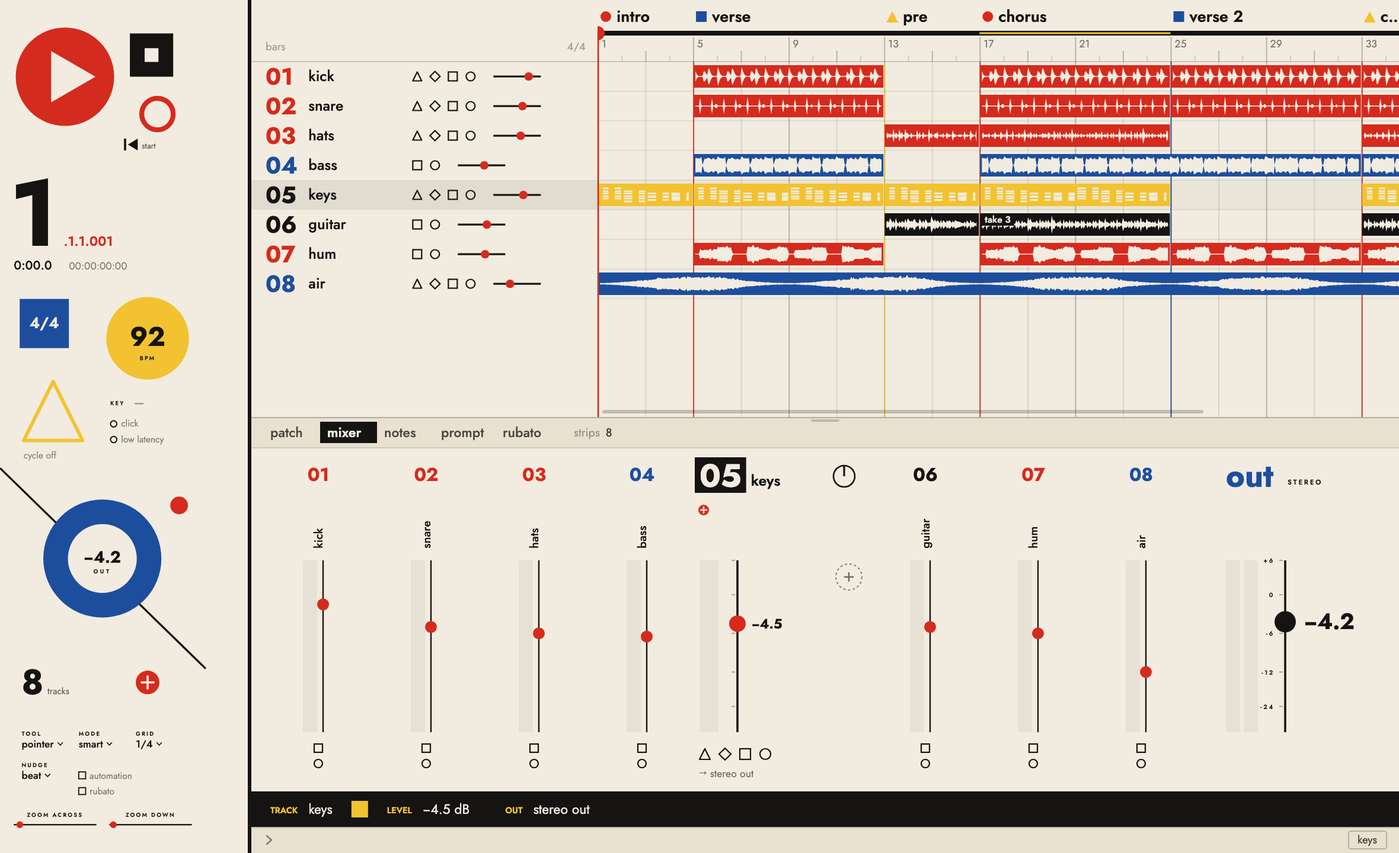
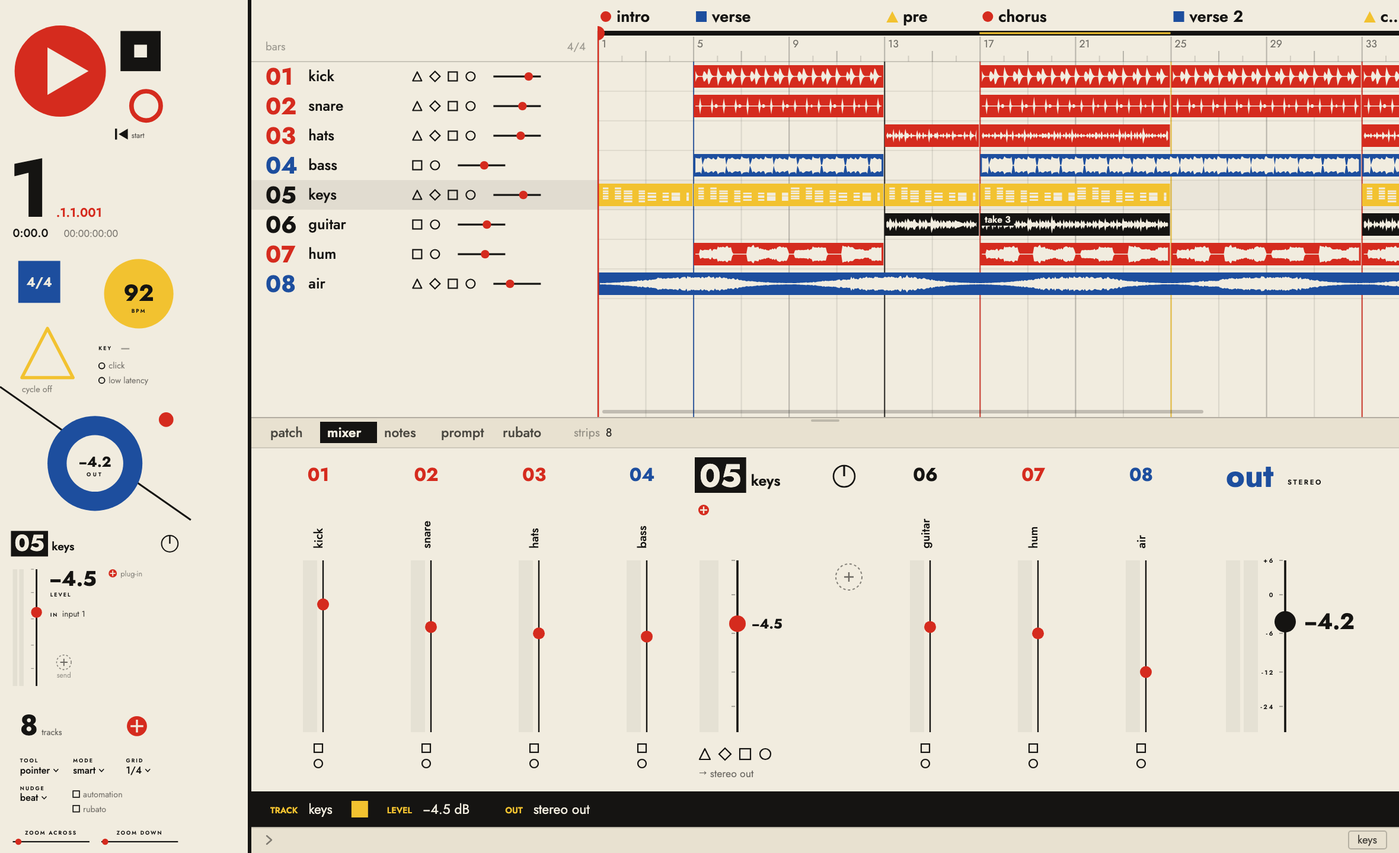
feat(daw): bauhaus draft 3 — the chosen track's strip stands in the left column under the out, with its group
The column holds the chosen track's number and name, pan, level (a red disc on a rule beside two bars as loud as
it sounds), input, group, plug-ins and sends as knobs; tool, mode, grid, nudge, automation, rubato and zoom go
small to its foot. The strip is drawn again when another track is chosen or a level, send or plug-in changes.
The patch keeps no strips at its right while the column holds one (SKIN_OWN_STRIP, panel.js SIDE).

diff --git a/Daw/ui/skin-poster.js b/Daw/ui/skin-poster.js
@@ -31,9 +31,11 @@ const bhArc = (cx, cy, r, f) => { f = clamp(f, 0, .9999); const a = f * 2 * Math
    one; the tool, mode, grid, nudge, automation, rubato and zoom smallest, at the foot. A window too short for it has it
    smaller. The tool row is folded away (skins.js SKIN.noTool). */
 const bhLab = (x, y, s, o = {}) => `<text x="${n(x)}" y="${n(y)}" font-family="${FONT}" font-size="${n((o.size || 5.6) * TF.scale)}" font-weight="600" letter-spacing="${o.ls == null ? 1.3 : o.ls}"${o.anchor ? ` text-anchor="${o.anchor}"` : ''} fill="${o.c || BH.black}"${o.a != null && o.a < 1 ? ` fill-opacity="${o.a}"` : ''}>${esc(String(s).toUpperCase())}</text>`
+/* the column down the left, as a poster (his picks: design/bauhaus draft 2, then draft 3 of 2026-10-22: the chosen track's
+   strip under the out, the smallest things at the foot); its x counted from the column's own edge */
 SKINS.left.poster = () => {
-  const CW = SKIN_BANDS.poster[2], p = curPos(), [bar, rest] = bhSplit(p), o = -CW, k = Math.min(1, H / 870)
-  const fld = (x, y, w, h) => ({ x: o + x * k, y: y * k, w: w * k, h: h * k })      // (a word's place in the room, for typing over it and for its list)
+  const CW = SKIN_BANDS.poster[2], p = curPos(), [bar, rest] = bhSplit(p), o = -CW, k = Math.min(1, H / 940)
+  const fld = (x, y, w, h) => ({ x: o + x * k, y: y * k, w: w * k, h: h * k })
   let s = ''
   /* the transport, largest */
   const play = S.playing && !S.rec
@@ -42,45 +44,90 @@ SKINS.left.poster = () => {
   s += (S.rec ? Cc(160, 116, 19, { fill: BH.red }) : Cc(160, 116, 16, { stroke: BH.red, sw: 5 })) + hit(138, 94, 44, 44, 'rec')
   s += R(126, 141, 2.2, 12, { fill: BH.black }) + P('M140 141L140 153L130 147Z', { fill: BH.black }) + T(144, 151, 'start', { size: 8, a: .7 }) + hit(122, 136, 50, 20, 'tostart')
   /* where the song is */
-  BHX.rest = 12 + tw(bar, 92, 700) + 4
-  s += T(10, 250, bar, { size: 92, w: 700, x: ' id="bh-bar"' }) + T(BHX.rest, 250, rest, { size: 13, w: 600, c: BH.red, x: ' id="bh-rest"' }) + hit(8, 176, CW - 20, 80, 'pos')
-  SKV.field.pos = fld(12, 200, 150, 44)
-  const tc = typeof smpte === 'function' ? smpte(p) : ''                                 // (the time as smpte, where the room says it: ui.js)
-  s += T(14, 274, clock(p), { size: 12, w: 500, x: ' id="bh-time"' }) + (tc ? T(70, 274, tc, { size: 10, a: .55, x: ' id="bh-smpte"' }) + hit(66, 262, 90, 16, 'smpte') : '')
-  if (tc) SKV.field.smpte = fld(66, 262, 96, 18)
-  /* tempo, metre, cycle: the three shapes, set apart */
-  s += Cc(150, 344, 42, { fill: BH.yellow }) + T(150, 352, String(Math.round(S.tempo * 100) / 100), { size: S.tempo >= 100 ? 21 : 26, w: 700, anchor: 'middle' }) + bhLab(150, 366, 'bpm', { anchor: 'middle' }) + hit(106, 300, 88, 88, 'tempo')
-  SKV.field.tempo = fld(118, 332, 64, 24)
-  s += R(20, 304, 50, 50, { fill: BH.blue }) + T(45, 334, meterName(), { size: 15, w: 600, c: BH.paper, anchor: 'middle' }) + hit(16, 300, 58, 58, 'meter')
-  SKV.field.meter = fld(20, 304, 50, 50)
+  BHX.rest = 12 + tw(bar, 86, 700) + 4
+  s += T(10, 238, bar, { size: 86, w: 700, x: ' id="bh-bar"' }) + T(BHX.rest, 238, rest, { size: 13, w: 600, c: BH.red, x: ' id="bh-rest"' }) + hit(8, 168, CW - 20, 76, 'pos')
+  SKV.field.pos = fld(12, 190, 150, 44)
+  const tc = typeof smpte === 'function' ? smpte(p) : ''
+  s += T(14, 260, clock(p), { size: 12, w: 500, x: ' id="bh-time"' }) + (tc ? T(70, 260, tc, { size: 10, a: .55, x: ' id="bh-smpte"' }) + hit(66, 248, 90, 16, 'smpte') : '')
+  if (tc) SKV.field.smpte = fld(66, 248, 96, 18)
+  /* tempo, metre, cycle */
+  s += Cc(152, 322, 38, { fill: BH.yellow }) + T(152, 330, String(Math.round(S.tempo * 100) / 100), { size: S.tempo >= 100 ? 20 : 24, w: 700, anchor: 'middle' }) + bhLab(152, 343, 'bpm', { anchor: 'middle' }) + hit(112, 282, 80, 80, 'tempo')
+  SKV.field.tempo = fld(122, 310, 60, 24)
+  s += R(20, 286, 46, 46, { fill: BH.blue }) + T(43, 314, meterName(), { size: 14, w: 600, c: BH.paper, anchor: 'middle' }) + hit(16, 282, 54, 54, 'meter')
+  SKV.field.meter = fld(20, 286, 46, 46)
   const c = S.cycle
-  s += P('M24 448L54 388L84 448Z', c.on ? { fill: BH.yellow } : { stroke: BH.yellow, sw: 3.5, x: ' stroke-linejoin="round"' }) + hit(20, 384, 68, 68, 'loop')
-  s += T(24, 466, c.on ? `cycle ${Math.round(c.a + 1)} to ${Math.round(c.b)}` : 'cycle off', { size: 9, a: c.on ? .9 : .5 }) + hit(20, 456, 90, 14, 'loop')
-  /* the key, click and low latency: small, beside them */
-  s += bhLab(112, 412, 'key') + T(136, 413, S.key || '—', { size: 11, w: 600, a: S.key ? 1 : .4 }) + hit(108, 400, 80, 18, 'key')
-  SKV.field.key = fld(132, 401, 60, 16)
+  s += P('M24 414L52 360L80 414Z', c.on ? { fill: BH.yellow } : { stroke: BH.yellow, sw: 3.5, x: ' stroke-linejoin="round"' }) + hit(20, 356, 64, 62, 'loop')
+  s += T(24, 430, c.on ? `cycle ${Math.round(c.a + 1)} to ${Math.round(c.b)}` : 'cycle off', { size: 9, a: c.on ? .9 : .5 }) + hit(20, 420, 90, 14, 'loop')
+  s += bhLab(108, 384, 'key') + T(132, 385, S.key || '—', { size: 11, w: 600, a: S.key ? 1 : .4 }) + hit(104, 372, 80, 18, 'key')
+  SKV.field.key = fld(128, 373, 60, 16)
   const ring = (x, y, on, word, a) => (on ? Cc(x + 3.5, y - 3, 3.5, { fill: BH.black }) : Cc(x + 3.5, y - 3, 3.2, { stroke: BH.black, sw: 1.2 })) + T(x + 11, y, word, { size: 9, a: on ? 1 : .55 }) + hit(x - 2, y - 11, tw(word, 9) + 16, 15, a)
-  s += ring(112, 434, !!S.click, 'click', 'click') + ring(112, 450, !!S.lowLat, 'low latency', 'lowlat')
-  /* the out: a blue ring as loud as the mix, crossed by a line, a red dot */
-  const mx = 104, my = 568
-  BHX.donut = [mx, my, 60]
-  s += P(`M0 ${my - 92}L${CW - 3} ${my + 112}`, { stroke: BH.black, sw: 2 }) + Cc(mx, my, 60, { fill: BH.blue }) + P('', { fill: BH.black, x: ' id="bh-donut"' })
-  s += Cc(mx, my, 35, { fill: BH.paper }) + T(mx, my + 4, fmtDb(S.master), { size: 16, w: 700, anchor: 'middle' }) + bhLab(mx, my + 15, 'out', { anchor: 'middle', ls: 2.2 }) + Cc(182, my - 54, 9, { fill: BH.red })
-  s += hit(mx - 38, my - 38, 76, 76, 'master', '', 'ns-resize')
+  s += ring(108, 404, !!S.click, 'click', 'click') + ring(108, 420, !!S.lowLat, 'low latency', 'lowlat')
+  /* the out */
+  const mx = 104, my = 508, mr = 52
+  BHX.donut = [mx, my, mr]
+  s += P(`M0 ${my - 84}L${CW - 3} ${my + 62}`, { stroke: BH.black, sw: 2 }) + Cc(mx, my, mr, { fill: BH.blue }) + P('', { fill: BH.black, x: ' id="bh-donut"' })
+  s += Cc(mx, my, 31, { fill: BH.paper }) + T(mx, my + 4, fmtDb(S.master), { size: 15, w: 700, anchor: 'middle' }) + bhLab(mx, my + 14, 'out', { anchor: 'middle', ls: 2.2 }) + Cc(182, my - 48, 8, { fill: BH.red })
+  s += hit(mx - 34, my - 34, 68, 68, 'master', '', 'ns-resize')
+  /* ── the strip of the track chosen ── */
+  const t = S.tracks[S.sel]
+  if (t) {
+    const i = S.sel, di = ` data-i="${i}"`, col = bhCol(t), vol = shown(t, 'vol'), heardT = heard(t), top = 584
+    /* its number on a black block, its name; its pan a ring */
+    const num = pad2(i + 1), nw = tw(num, 24, 700)
+    s += R(12, top - 2, nw + 8, 28, { fill: BH.black }) + T(16, top + 20, num, { size: 24, w: 700, c: BH.paper }) + T(24 + nw, top + 19, fit(asGiven(t.name), 120, 12, 600), { size: 12, w: 600, a: heardT ? 1 : .5 }) + hit(12, top - 2, 150, 28, 'sel', di)
+    const pan = shown(t, 'pan') || 0, pcx = 186, pcy = top + 12, pa = pan * 2.4
+    s += Cc(pcx, pcy, 9, { stroke: BH.black, sw: 1.3 }) + P(`M${pcx} ${pcy}L${n(pcx + 9 * Math.sin(pa))} ${n(pcy - 9 * Math.cos(pa))}`, { stroke: BH.black, sw: 1.6 }) + hit(pcx - 14, pcy - 12, 28, 24, 'mpan', `${di} data-x="${n(o + (pcx - 30) * k)}" data-pw="${n(60 * k)}"`, 'ew-resize')
+    /* its level: two bars of its colour, the rule, the red disc; its level large; where it comes in */
+    const ft = top + 40, fb = top + 168, fh = fb - ft, yOf = db => fb - fh * volF(db)
+    BHX.strip = [ft, fh]
+    for (let q = 0; q < 2; q++) s += R(14 + q * 7, ft, 5, fh, { fill: BH.black, fa: .06 }) + R(14 + q * 7, fb, 5, 0, { fill: col, fa: heardT ? 1 : .45, x: ` id="bhs-${q}"` })
+    for (const db of [6, 0, -6, -12, -24]) s += R(34, yOf(db) - .4, 3, .8, { fill: BH.black, fa: .4 })
+    s += R(39.1, ft, 1.8, fh, { fill: BH.black }) + Cc(40, yOf(vol), 6, { fill: BH.red, fa: heardT ? 1 : .5 }) + hit(10, ft - 6, 40, fh + 12, 'vol', `${di} data-rel="1"`, 'ns-resize')
+    s += T(54, ft + 18, fmtDb(vol), { size: 22, w: 700, a: heardT ? 1 : .5 }) + bhLab(55, ft + 30, 'level') + hit(52, ft - 2, 60, 34, 'volnum', di, 'text')
+    if (t.kind === 'audio' && !t.theirs && !t.inst) { const word = inputName(t.inp || 0); s += bhLab(55, ft + 52, 'in') + T(68, ft + 52, fit(word, 50, 8.5), { size: 8.5, a: .8 }) + hit(52, ft + 42, 64, 14, 'min', di) }
+    if (t.grp && typeof grpMeta === 'function') {                                         // its group (groups.js), as the transport panel has it: pressed, as there
+      const m = grpMeta(t.grp), off = S.grpOff || !m.on, gn = fit(asGiven(m.name), 44, 8.5), gy = ft + 68
+      s += bhLab(55, gy, 'group') + T(84, gy, gn, { size: 8.5, a: off ? .4 : .85 }) + Cc(84 + tw(gn, 8.5) + 6, gy - 3, 2.8, { fill: grpColour(t.grp), fa: off ? .35 : 1 })
+      s += hit(52, gy - 11, 44 + tw(gn, 8.5), 15, 'mgrp', `${di} data-x="${n(o + 82 * k)}" data-y="${n((gy - 11) * k)}" data-w="${n(70 * k)}" data-h="${n(13 * k)}"`)
+    }
+    /* its plug-ins, a red disc to put one on */
+    const items = fxItems(t), gx = 120
+    let ly = ft + 8
+    if (t.theirs) { s += T(gx, ly, 'patch →', { size: 8.5, a: .5 }) + hit(gx - 3, ly - 10, 80, 14, 'm-patch', di); ly += 13 }
+    else {
+      const show = Math.min(items.length, 3)
+      items.slice(0, show).forEach((it, j) => { s += R(gx, ly - 7, 7, 7, { fill: it.c || BH.black, fa: it.off ? .35 : 1 }) + T(gx + 11, ly, fit(asGiven(it.t), 66, 8.5), { size: 8.5, a: it.off ? .45 : .9 }) + hit(gx - 3, ly - 10, 84, 13, 'mfx', `${di} data-k="${j}"`); ly += 13 })
+      if (items.length > 3) { s += T(gx + 11, ly, `+${items.length - 3} more`, { size: 8, a: .5 }) + hit(gx - 3, ly - 10, 84, 13, 'm-patch', di); ly += 13 }
+      s += Cc(gx + 3.5, ly - 3.5, 4.5, { fill: BH.red }) + P(`M${gx + 3.5} ${ly - 6.5}v6M${gx + .5} ${ly - 3.5}h6`, { stroke: BH.paper, sw: 1.2 }) + T(gx + 12, ly, 'plug-in', { size: 8, a: .45 }) + hit(gx - 3, ly - 10, 60, 13, 'mfxadd', di)
+    }
+    /* its sends: knobs with the bus under each, how much with the pointer on it; three, then how many more */
+    if (t.kind !== 'stack') {
+      const sends = t.sends || [], three = sends.slice(0, sends.length > 4 ? 3 : 4), kr = 8, ky = fb - 26
+      let kx = 70
+      three.forEach((sd, q) => {
+        const b = byId(sd.to), f = volF(sd.db), a0 = -135 * Math.PI / 180, a1 = a0 + f * 270 * Math.PI / 180, on = (r, z) => `${n(kx + r * Math.sin(z))} ${n(ky - r * Math.cos(z))}`, turning = drag && drag.a === 'msend' && drag.i === i && drag.k === q
+        s += `<g class="bmk${turning ? ' on' : ''}">` + Cc(kx, ky, kr, { fill: BH.paper, stroke: BH.black, sw: 1.2 }) + (f > .004 ? P(`M${on(kr + 2.4, a0)}A${kr + 2.4} ${kr + 2.4} 0 ${f > 2 / 3 ? 1 : 0} 1 ${on(kr + 2.4, a1)}`, { stroke: BH.red, sw: 2.2 }) : '') + P(`M${n(kx)} ${n(ky)}L${on(kr - 1, a1)}`, { stroke: BH.black, sw: 1.5 })
+          + T(kx, ky + kr + 9, fit(asGiven(b ? b.name : 'send'), 30, 7.5, 600), { size: 7.5, w: 600, a: .8, anchor: 'middle', x: ' class="bmk-name"' }) + T(kx, ky + kr + 9, fmtDb(sd.db), { size: 7.5, w: 600, c: BH.red, anchor: 'middle', x: ' class="bmk-db"' })
+          + hit(kx - kr - 4, ky - kr - 4, 2 * kr + 8, 2 * kr + 14, 'msend', `${di} data-k="${q}" data-rel="1" data-x="${n(o + (kx - 60) * k)}" data-pw="${n(120 * k)}"`, 'ns-resize') + '</g>'
+        kx += 34
+      })
+      if (sends.length > three.length) s += T(kx, ky + 3, `+${sends.length - three.length}`, { size: 9, w: 600, a: .6, anchor: 'middle' }) + hit(kx - kr, ky - kr, 2 * kr, 2 * kr, 'tab-mixer')
+      else if (sends.length < (typeof MAX_SENDS === 'number' ? MAX_SENDS : 10) && !t.theirs) s += Cc(kx, ky, kr, { stroke: BH.black, sw: 1, dash: '2 2', sa: .5 }) + P(`M${kx} ${ky - 4}v8M${kx - 4} ${ky}h8`, { stroke: BH.black, sw: 1.2, sa: .6 }) + T(kx, ky + kr + 9, 'send', { size: 7.5, a: .4, anchor: 'middle' }) + hit(kx - kr - 4, ky - kr - 4, 2 * kr + 8, 2 * kr + 8, 'msendadd', di)
+    }
+  }
   /* the tracks: a figure, a red disc to add one */
-  const nt = S.tracks.filter(t => t.kind === 'audio').length
-  s += T(22, 706, String(nt), { size: 34, w: 700 }) + T(26 + tw(String(nt), 34, 700), 706, nt === 1 ? 'track' : 'tracks', { size: 9, a: .65 })
-  s += Cc(150, 694, 12, { fill: BH.red }) + P('M150 687V701M143 694H157', { stroke: BH.paper, sw: 2.2 }) + hit(134, 678, 32, 32, 'addtrack')
-  /* the smallest: the tool, the mode, the grid, the nudge, automation, rubato, the zoom */
+  const nt = S.tracks.filter(x => x.kind === 'audio').length
+  s += T(22, 806, String(nt), { size: 30, w: 700 }) + T(26 + tw(String(nt), 30, 700), 806, nt === 1 ? 'track' : 'tracks', { size: 9, a: .65 })
+  s += Cc(150, 796, 11, { fill: BH.red }) + P('M150 789V803M143 796H157', { stroke: BH.paper, sw: 2.2 }) + hit(135, 781, 30, 30, 'addtrack')
+  /* the smallest, at the foot */
   const small = (x, y, key, v, a) => { const w = tw(v, 10, 500); SKV.field[a] = fld(x - 2, y - 10, Math.max(56, w + 14), 14); return bhLab(x, y - 12, key) + T(x, y, v, { size: 10, w: 500 }) + P(`M${n(x + w + 4)} ${y - 5}l2.6 2.8l2.6 -2.8`, { stroke: BH.black, sw: 1 }) + hit(x - 3, y - 20, w + 14, 24, a) }
-  s += small(22, 760, 'tool', toolWord(S.tool), 'toolmenu') + small(80, 760, 'mode', S.mode, 'modemenu') + small(138, 760, 'grid', S.grid, 'grid')
-  s += small(22, 792, 'nudge', S.nudge, 'nudge')
+  s += small(22, 848, 'tool', toolWord(S.tool), 'toolmenu') + small(80, 848, 'mode', S.mode, 'modemenu') + small(138, 848, 'grid', S.grid, 'grid')
+  s += small(22, 878, 'nudge', S.nudge, 'nudge')
   const sq = (x, y, on, word, a) => R(x, y - 7, 7, 7, on ? { fill: BH.black } : { stroke: BH.black, sw: 1.1 }) + T(x + 11, y, word, { size: 9, a: on ? 1 : .55 }) + hit(x - 2, y - 11, tw(word, 9) + 16, 15, a)
-  s += sq(80, 792, !!S.auto, 'automation', 'autokey') + sq(80, 808, !!S.flex, 'rubato', 'flexkey')
-  /* the zoom: two rules side by side, their names over their middles (his word on draft 2) */
+  s += sq(80, 874, !!S.auto, 'automation', 'autokey') + sq(80, 890, !!S.flex, 'rubato', 'flexkey')
   const zf = clamp(Math.log(PXB / fitPXB()) / Math.log(640 / fitPXB()), 0, 1), rf = clamp(((S.rh || 25) - 20) / 100, 0, 1), zw = 84
   const zoom = (x, y, f, a, word) => bhLab(x + zw / 2, y - 7, word, { anchor: 'middle' }) + R(x, y, zw, 1.4, { fill: BH.black }) + Cc(x + zw * f, y + .7, 3.4, { fill: BH.red }) + hit(x - 5, y - 9, zw + 10, 16, a, ` data-x0="${n(o + x * k)}" data-w="${n(zw * k)}"`, 'ew-resize')
-  s += zoom(14, 838, zf, 'zoomx', 'zoom across') + zoom(111, 838, rf, 'zoomy', 'zoom down')
+  s += zoom(14, 922, zf, 'zoomx', 'zoom across') + zoom(111, 922, rf, 'zoomy', 'zoom down')
   const ground = R(0, 0, CW, H, { fill: K1 }) + R(CW - 3, 0, 3, H, { fill: BH.black })
   return G(ground + G(G(s, k < 1 ? `scale(${n(k)})` : ''), '', ' id="bh-col"'), `translate(${o} 0)`)
 }
@@ -110,6 +157,11 @@ SKINS.frame.poster = p => {
   /* the start page and the sheet of keys are over the room: the column's controls are not there to be pressed while they are */
   const col = $('bh-col'), hide = (typeof START === 'object' && START.on) || !!S.sheet
   if (col && col.getAttribute('visibility') !== (hide ? 'hidden' : 'visible')) col.setAttribute('visibility', hide ? 'hidden' : 'visible')
+  const sg = BHX.strip, tk = S.tracks[S.sel]
+  if (sg && tk && typeof METERS === 'object') {                                          // the chosen track's two bars: as loud as each side (one level for both where the app gives one)
+    const two = METERS.ts && METERS.ts.get(tk.id), mono = METERS.now.get(tk.id) || 0, f = v => volF(Math.min(6, linDb(v)))
+    ;[two ? two[0] : mono, two ? two[1] : mono].forEach((v, q) => { const el = $('bhs-' + q); if (el) { const hh = sg[1] * f(v); el.setAttribute('y', n(sg[0] + sg[1] - hh)); el.setAttribute('height', n(hh)) } })
+  }
   const [bar, rest] = bhSplit(p), b = $('bh-bar'), r = $('bh-rest'), t = $('bh-time'), sm = $('bh-smpte'), ct = clock(p), st = typeof smpte === 'function' ? smpte(p) : ''
   if (b && b.textContent !== bar) { b.textContent = bar; BHX.rest = 12 + tw(bar, 92, 700) + 4; if (r) r.setAttribute('x', n(BHX.rest)) }
   if (r && r.textContent !== rest) r.textContent = rest
@@ -288,6 +340,11 @@ function bhMixer (y, h) {
   return s
 }
 SKINS.mixer.poster = bhMixer
+SKIN_OWN_STRIP.add('poster')                                                          // (its column holds the chosen track's strip: the patch keeps none at its right — panel.js SIDE)
+/* the column's strip is the chosen track's: drawn again where the heads and the panel below change (another track chosen, a level, a send, a plug-in), as panel.js's strip is
+   (this file comes before ui.js: its uiDirty is wrapped once every file is in) */
+addEventListener('DOMContentLoaded', () => { const dirty0 = uiDirty
+  uiDirty = function () { dirty0.apply(this, arguments); if (SKIN.k.transport === 'poster' && BHX.strip) for (const q of arguments) if (q === 'head' || q === 'dock') { dirty0('top'); break } } })
 /* a send's knob shows its bus; how much it sends, while the pointer is over it or it is turned */
 { const st = document.createElement('style'); st.textContent = '.bmk .bmk-db{display:none}.bmk:hover .bmk-db,.bmk.on .bmk-db{display:inline}.bmk:hover .bmk-name,.bmk.on .bmk-name{display:none}'; document.head.appendChild(st) }
 /* the panel's tabs: words, the open one on a black block */

diff --git a/Daw/design/bauhaus draft 3/column.js b/Daw/design/bauhaus draft 3/column.js
@@ -1,0 +1,101 @@
+/* ── bauhaus, draft 3: the chosen track's strip in the column (his word, 2026-10-22: "왼쪽 기둥 안 … tool / mode / grid /
+   nudge / automation / rubato / zoom across / zoom down 이거를 밑으로 내리고, 마스터 밑에다가 만들면 돼. default 테마의
+   트랜스포트 패널을 참고하도록") ──
+   Laid into the room by shots.mjs only. The column as draft 2 has it, drawn a little closer, and under the out the strip of
+   the track chosen, as the transport panel has it: its number on a black block and its name, its pan a ring; two bars of
+   its colour as loud as each side, the black rule and the red disc of its level, its level large; where it comes in; its
+   plug-ins and a red disc to put one on; its sends as knobs with the bus under each (how much, with the pointer on it).
+   Under it the tracks and the smallest things. A window too short has the column smaller. */
+SKINS.left.poster = () => {
+  const CW = SKIN_BANDS.poster[2], p = curPos(), [bar, rest] = bhSplit(p), o = -CW, k = Math.min(1, H / 940)
+  const fld = (x, y, w, h) => ({ x: o + x * k, y: y * k, w: w * k, h: h * k })
+  let s = ''
+  /* the transport, largest */
+  const play = S.playing && !S.rec
+  s += Cc(66, 78, 50, { fill: BH.red }) + (play ? R(52, 56, 10, 44, { fill: BH.paper }) + R(71, 56, 10, 44, { fill: BH.paper }) : P('M52 52L52 104L97 78Z', { fill: BH.paper })) + hit(14, 26, 104, 104, 'play')
+  s += R(132, 34, 44, 44, { fill: BH.black }) + R(147, 49, 14, 14, { fill: BH.paper }) + hit(128, 30, 52, 52, 'stop')
+  s += (S.rec ? Cc(160, 116, 19, { fill: BH.red }) : Cc(160, 116, 16, { stroke: BH.red, sw: 5 })) + hit(138, 94, 44, 44, 'rec')
+  s += R(126, 141, 2.2, 12, { fill: BH.black }) + P('M140 141L140 153L130 147Z', { fill: BH.black }) + T(144, 151, 'start', { size: 8, a: .7 }) + hit(122, 136, 50, 20, 'tostart')
+  /* where the song is */
+  BHX.rest = 12 + tw(bar, 86, 700) + 4
+  s += T(10, 238, bar, { size: 86, w: 700, x: ' id="bh-bar"' }) + T(BHX.rest, 238, rest, { size: 13, w: 600, c: BH.red, x: ' id="bh-rest"' }) + hit(8, 168, CW - 20, 76, 'pos')
+  SKV.field.pos = fld(12, 190, 150, 44)
+  const tc = typeof smpte === 'function' ? smpte(p) : ''
+  s += T(14, 260, clock(p), { size: 12, w: 500, x: ' id="bh-time"' }) + (tc ? T(70, 260, tc, { size: 10, a: .55, x: ' id="bh-smpte"' }) + hit(66, 248, 90, 16, 'smpte') : '')
+  if (tc) SKV.field.smpte = fld(66, 248, 96, 18)
+  /* tempo, metre, cycle */
+  s += Cc(152, 322, 38, { fill: BH.yellow }) + T(152, 330, String(Math.round(S.tempo * 100) / 100), { size: S.tempo >= 100 ? 20 : 24, w: 700, anchor: 'middle' }) + bhLab(152, 343, 'bpm', { anchor: 'middle' }) + hit(112, 282, 80, 80, 'tempo')
+  SKV.field.tempo = fld(122, 310, 60, 24)
+  s += R(20, 286, 46, 46, { fill: BH.blue }) + T(43, 314, meterName(), { size: 14, w: 600, c: BH.paper, anchor: 'middle' }) + hit(16, 282, 54, 54, 'meter')
+  SKV.field.meter = fld(20, 286, 46, 46)
+  const c = S.cycle
+  s += P('M24 414L52 360L80 414Z', c.on ? { fill: BH.yellow } : { stroke: BH.yellow, sw: 3.5, x: ' stroke-linejoin="round"' }) + hit(20, 356, 64, 62, 'loop')
+  s += T(24, 430, c.on ? `cycle ${Math.round(c.a + 1)} to ${Math.round(c.b)}` : 'cycle off', { size: 9, a: c.on ? .9 : .5 }) + hit(20, 420, 90, 14, 'loop')
+  s += bhLab(108, 384, 'key') + T(132, 385, S.key || '—', { size: 11, w: 600, a: S.key ? 1 : .4 }) + hit(104, 372, 80, 18, 'key')
+  SKV.field.key = fld(128, 373, 60, 16)
+  const ring = (x, y, on, word, a) => (on ? Cc(x + 3.5, y - 3, 3.5, { fill: BH.black }) : Cc(x + 3.5, y - 3, 3.2, { stroke: BH.black, sw: 1.2 })) + T(x + 11, y, word, { size: 9, a: on ? 1 : .55 }) + hit(x - 2, y - 11, tw(word, 9) + 16, 15, a)
+  s += ring(108, 404, !!S.click, 'click', 'click') + ring(108, 420, !!S.lowLat, 'low latency', 'lowlat')
+  /* the out */
+  const mx = 104, my = 508, mr = 52
+  BHX.donut = [mx, my, mr]
+  s += P(`M0 ${my - 84}L${CW - 3} ${my + 62}`, { stroke: BH.black, sw: 2 }) + Cc(mx, my, mr, { fill: BH.blue }) + P('', { fill: BH.black, x: ' id="bh-donut"' })
+  s += Cc(mx, my, 31, { fill: BH.paper }) + T(mx, my + 4, fmtDb(S.master), { size: 15, w: 700, anchor: 'middle' }) + bhLab(mx, my + 14, 'out', { anchor: 'middle', ls: 2.2 }) + Cc(182, my - 48, 8, { fill: BH.red })
+  s += hit(mx - 34, my - 34, 68, 68, 'master', '', 'ns-resize')
+  /* ── the strip of the track chosen ── */
+  const t = S.tracks[S.sel]
+  if (t) {
+    const i = S.sel, di = ` data-i="${i}"`, col = bhCol(t), vol = shown(t, 'vol'), heardT = heard(t), top = 584
+    /* its number on a black block, its name; its pan a ring */
+    const num = pad2(i + 1), nw = tw(num, 24, 700)
+    s += R(12, top - 2, nw + 8, 28, { fill: BH.black }) + T(16, top + 20, num, { size: 24, w: 700, c: BH.paper }) + T(24 + nw, top + 19, fit(asGiven(t.name), 120, 12, 600), { size: 12, w: 600, a: heardT ? 1 : .5 }) + hit(12, top - 2, 150, 28, 'sel', di)
+    const pan = shown(t, 'pan') || 0, pcx = 186, pcy = top + 12, pa = pan * 2.4
+    s += Cc(pcx, pcy, 9, { stroke: BH.black, sw: 1.3 }) + P(`M${pcx} ${pcy}L${n(pcx + 9 * Math.sin(pa))} ${n(pcy - 9 * Math.cos(pa))}`, { stroke: BH.black, sw: 1.6 }) + hit(pcx - 14, pcy - 12, 28, 24, 'mpan', `${di} data-x="${n(o + (pcx - 30) * k)}" data-pw="${n(60 * k)}"`, 'ew-resize')
+    /* its level: two bars of its colour, the rule, the red disc; its level large; where it comes in */
+    const ft = top + 40, fb = top + 168, fh = fb - ft, yOf = db => fb - fh * volF(db)
+    BHX.strip = [ft, fh]
+    for (let q = 0; q < 2; q++) s += R(14 + q * 7, ft, 5, fh, { fill: BH.black, fa: .06 }) + R(14 + q * 7, fb, 5, 0, { fill: col, fa: heardT ? 1 : .45, x: ` id="bhs-${q}"` })
+    for (const db of [6, 0, -6, -12, -24]) s += R(34, yOf(db) - .4, 3, .8, { fill: BH.black, fa: .4 })
+    s += R(39.1, ft, 1.8, fh, { fill: BH.black }) + Cc(40, yOf(vol), 6, { fill: BH.red, fa: heardT ? 1 : .5 }) + hit(10, ft - 6, 40, fh + 12, 'vol', `${di} data-rel="1"`, 'ns-resize')
+    s += T(54, ft + 18, fmtDb(vol), { size: 22, w: 700, a: heardT ? 1 : .5 }) + bhLab(55, ft + 30, 'level') + hit(52, ft - 2, 60, 34, 'volnum', di, 'text')
+    if (t.kind === 'audio' && !t.theirs && !t.inst) { const word = inputName(t.inp || 0); s += bhLab(55, ft + 52, 'in') + T(68, ft + 52, fit(word, 50, 8.5), { size: 8.5, a: .8 }) + hit(52, ft + 42, 64, 14, 'min', di) }
+    /* its plug-ins, a red disc to put one on */
+    const items = fxItems(t), gx = 120
+    let ly = ft + 8
+    if (t.theirs) { s += T(gx, ly, 'patch →', { size: 8.5, a: .5 }) + hit(gx - 3, ly - 10, 80, 14, 'm-patch', di); ly += 13 }
+    else {
+      const show = Math.min(items.length, 3)
+      items.slice(0, show).forEach((it, j) => { s += R(gx, ly - 7, 7, 7, { fill: it.c || BH.black, fa: it.off ? .35 : 1 }) + T(gx + 11, ly, fit(asGiven(it.t), 66, 8.5), { size: 8.5, a: it.off ? .45 : .9 }) + hit(gx - 3, ly - 10, 84, 13, 'mfx', `${di} data-k="${j}"`); ly += 13 })
+      if (items.length > 3) { s += T(gx + 11, ly, `+${items.length - 3} more`, { size: 8, a: .5 }) + hit(gx - 3, ly - 10, 84, 13, 'm-patch', di); ly += 13 }
+      s += Cc(gx + 3.5, ly - 3.5, 4.5, { fill: BH.red }) + P(`M${gx + 3.5} ${ly - 6.5}v6M${gx + .5} ${ly - 3.5}h6`, { stroke: BH.paper, sw: 1.2 }) + T(gx + 12, ly, 'plug-in', { size: 8, a: .45 }) + hit(gx - 3, ly - 10, 60, 13, 'mfxadd', di)
+    }
+    /* its sends: knobs with the bus under each, how much with the pointer on it; three, then how many more */
+    if (t.kind !== 'stack') {
+      const sends = t.sends || [], three = sends.slice(0, sends.length > 4 ? 3 : 4), kr = 8, ky = fb - 26
+      let kx = 70
+      three.forEach((sd, q) => {
+        const b = byId(sd.to), f = volF(sd.db), a0 = -135 * Math.PI / 180, a1 = a0 + f * 270 * Math.PI / 180, on = (r, z) => `${n(kx + r * Math.sin(z))} ${n(ky - r * Math.cos(z))}`, turning = drag && drag.a === 'msend' && drag.i === i && drag.k === q
+        s += `<g class="bmk${turning ? ' on' : ''}">` + Cc(kx, ky, kr, { fill: BH.paper, stroke: BH.black, sw: 1.2 }) + (f > .004 ? P(`M${on(kr + 2.4, a0)}A${kr + 2.4} ${kr + 2.4} 0 ${f > 2 / 3 ? 1 : 0} 1 ${on(kr + 2.4, a1)}`, { stroke: BH.red, sw: 2.2 }) : '') + P(`M${n(kx)} ${n(ky)}L${on(kr - 1, a1)}`, { stroke: BH.black, sw: 1.5 })
+          + T(kx, ky + kr + 9, fit(asGiven(b ? b.name : 'send'), 30, 7.5, 600), { size: 7.5, w: 600, a: .8, anchor: 'middle', x: ' class="bmk-name"' }) + T(kx, ky + kr + 9, fmtDb(sd.db), { size: 7.5, w: 600, c: BH.red, anchor: 'middle', x: ' class="bmk-db"' })
+          + hit(kx - kr - 4, ky - kr - 4, 2 * kr + 8, 2 * kr + 14, 'msend', `${di} data-k="${q}" data-rel="1" data-x="${n(o + (kx - 60) * k)}" data-pw="${n(120 * k)}"`, 'ns-resize') + '</g>'
+        kx += 34
+      })
+      if (sends.length > three.length) s += T(kx, ky + 3, `+${sends.length - three.length}`, { size: 9, w: 600, a: .6, anchor: 'middle' }) + hit(kx - kr, ky - kr, 2 * kr, 2 * kr, 'tab-mixer')
+      else if (sends.length < (typeof MAX_SENDS === 'number' ? MAX_SENDS : 10) && !t.theirs) s += Cc(kx, ky, kr, { stroke: BH.black, sw: 1, dash: '2 2', sa: .5 }) + P(`M${kx} ${ky - 4}v8M${kx - 4} ${ky}h8`, { stroke: BH.black, sw: 1.2, sa: .6 }) + T(kx, ky + kr + 9, 'send', { size: 7.5, a: .4, anchor: 'middle' }) + hit(kx - kr - 4, ky - kr - 4, 2 * kr + 8, 2 * kr + 8, 'msendadd', di)
+    }
+  }
+  /* the tracks: a figure, a red disc to add one */
+  const nt = S.tracks.filter(x => x.kind === 'audio').length
+  s += T(22, 806, String(nt), { size: 30, w: 700 }) + T(26 + tw(String(nt), 30, 700), 806, nt === 1 ? 'track' : 'tracks', { size: 9, a: .65 })
+  s += Cc(150, 796, 11, { fill: BH.red }) + P('M150 789V803M143 796H157', { stroke: BH.paper, sw: 2.2 }) + hit(135, 781, 30, 30, 'addtrack')
+  /* the smallest, at the foot */
+  const small = (x, y, key, v, a) => { const w = tw(v, 10, 500); SKV.field[a] = fld(x - 2, y - 10, Math.max(56, w + 14), 14); return bhLab(x, y - 12, key) + T(x, y, v, { size: 10, w: 500 }) + P(`M${n(x + w + 4)} ${y - 5}l2.6 2.8l2.6 -2.8`, { stroke: BH.black, sw: 1 }) + hit(x - 3, y - 20, w + 14, 24, a) }
+  s += small(22, 848, 'tool', toolWord(S.tool), 'toolmenu') + small(80, 848, 'mode', S.mode, 'modemenu') + small(138, 848, 'grid', S.grid, 'grid')
+  s += small(22, 878, 'nudge', S.nudge, 'nudge')
+  const sq = (x, y, on, word, a) => R(x, y - 7, 7, 7, on ? { fill: BH.black } : { stroke: BH.black, sw: 1.1 }) + T(x + 11, y, word, { size: 9, a: on ? 1 : .55 }) + hit(x - 2, y - 11, tw(word, 9) + 16, 15, a)
+  s += sq(80, 874, !!S.auto, 'automation', 'autokey') + sq(80, 890, !!S.flex, 'rubato', 'flexkey')
+  const zf = clamp(Math.log(PXB / fitPXB()) / Math.log(640 / fitPXB()), 0, 1), rf = clamp(((S.rh || 25) - 20) / 100, 0, 1), zw = 84
+  const zoom = (x, y, f, a, word) => bhLab(x + zw / 2, y - 7, word, { anchor: 'middle' }) + R(x, y, zw, 1.4, { fill: BH.black }) + Cc(x + zw * f, y + .7, 3.4, { fill: BH.red }) + hit(x - 5, y - 9, zw + 10, 16, a, ` data-x0="${n(o + x * k)}" data-w="${n(zw * k)}"`, 'ew-resize')
+  s += zoom(14, 922, zf, 'zoomx', 'zoom across') + zoom(111, 922, rf, 'zoomy', 'zoom down')
+  const ground = R(0, 0, CW, H, { fill: K1 }) + R(CW - 3, 0, 3, H, { fill: BH.black })
+  return G(ground + G(G(s, k < 1 ? `scale(${n(k)})` : ''), '', ' id="bh-col"'), `translate(${o} 0)`)
+}

diff --git a/Daw/ui/skins.js b/Daw/ui/skins.js
@@ -30,6 +30,7 @@ const skinHas = part => SKIN.k[part] && SKIN.k[part] !== 'plain'
 const skinTabs = (x, y, h, items, o = {}) => SKINS.tabs[SKIN.k.mixer] ? SKINS.tabs[SKIN.k.mixer](x, y, h, items, o) : null
 /* the window cut again (ui.js relayout asks first): the bands of the transport and the bridge of meters */
 const SKIN_NO_TOOL = new Set(['poster'])                                           // (transports that hold the tool row's things themselves: it folds away)
+const SKIN_OWN_STRIP = new Set(['panel'])                                          // (transports that hold the chosen track's strip themselves: the patch keeps none at its right — panel.js SIDE)                                           // (transports that hold the tool row's things themselves: it folds away)
 function skinLayout () {
   skinRead()
   SKIN.noTool = SKIN_NO_TOOL.has(SKIN.k.transport)

diff --git a/Daw/ui/panel.js b/Daw/ui/panel.js
@@ -24,7 +24,7 @@ SKIN_NO_TOOL.add('panel'); SKIN_NO_TOOL.add('none')
 { const read0 = skinRead
   skinRead = function () {
     read0(); if (SKIN.k.transport === 'plain') { SKIN.k.transport = TPANEL.on ? 'panel' : 'none'; SKIN.noTool = true }
-    SIDE = SKIN.k.transport === 'panel' ? 0 : 222                                         // (the chosen track's strip is the panel's: the patch keeps none at its right — ui.js)
+    SIDE = (typeof SKIN_OWN_STRIP === 'object' ? SKIN_OWN_STRIP.has(SKIN.k.transport) : SKIN.k.transport === 'panel') ? 0 : 222                                         // (the chosen track's strip is the panel's: the patch keeps none at its right — ui.js)
   } }
 function tpanelSet (on, keep = true) {
   TPANEL.on = !!on
